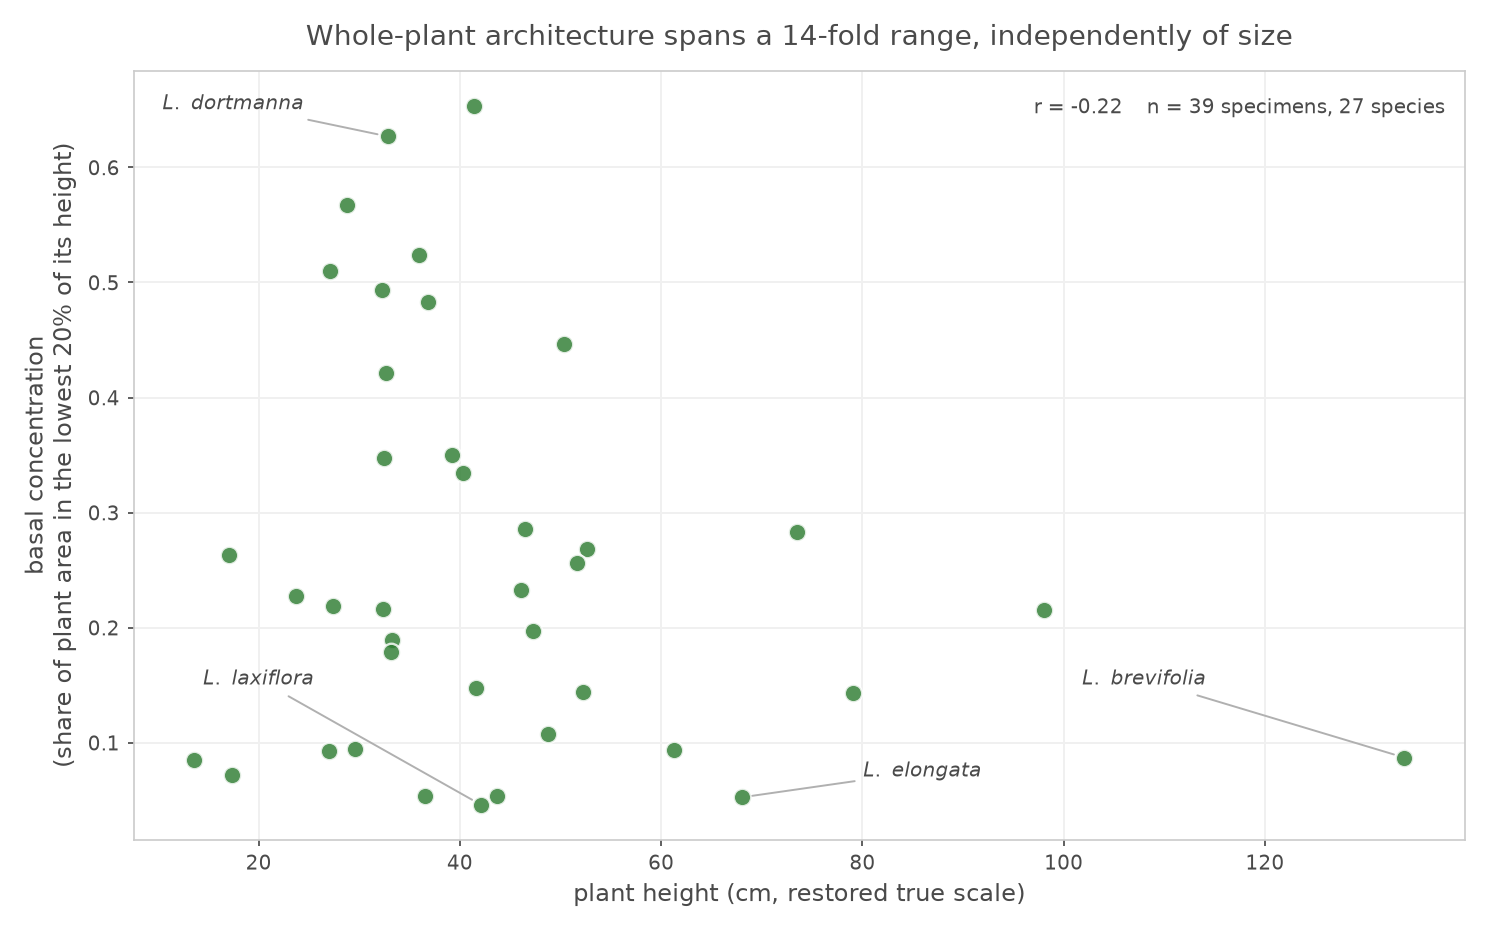
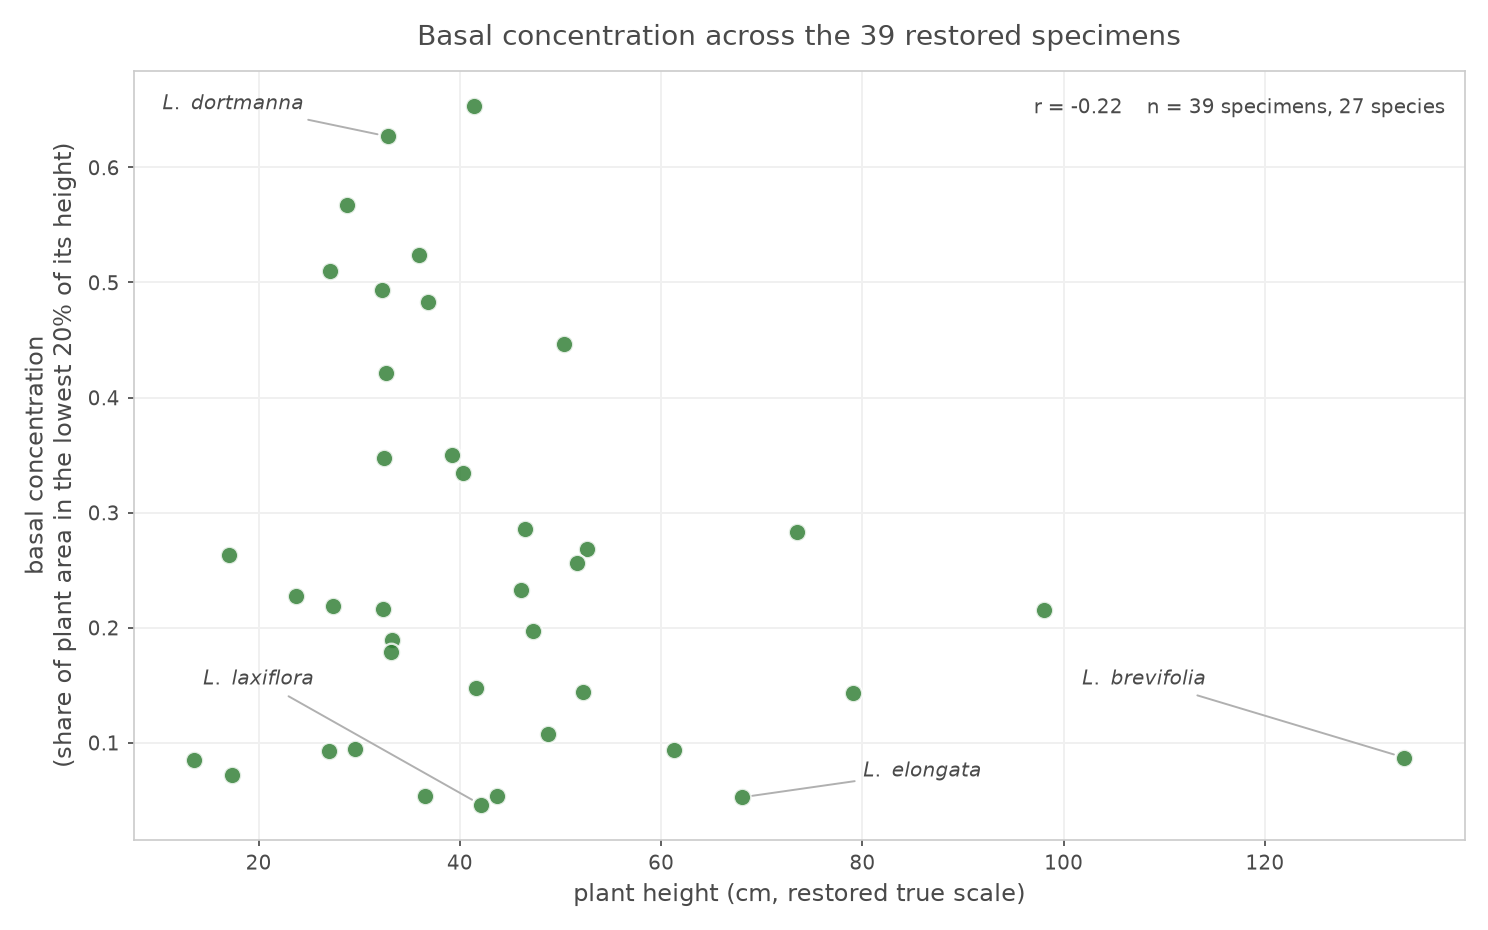
projects: ground the silhouette measurements against real plants (#63)
The habit section drew biological conclusions from artwork. The silhouettes are
RESTORATIONS -- plants I unfolded and rejoined -- so anything measured off them
carries my restoration decisions, and the page was presenting that as a result
about Lobelia.

Checked the restored heights against published stature, which is the test that
should have gated the claim in the first place:

  L. siphilitica   61 cm            vs  46-152 cm published   INSIDE
  L. cardinalis    24 / 47 / 52 cm  vs  122-152 cm published  FAR BELOW

The disagreement is the informative one. A herbarium sheet holds what fits on a
herbarium sheet: for a tall species the mounted specimen is often a portion of
the plant or a small individual, so a silhouette faithfully depicts the pressed
SPECIMEN, not the species. An outline of a fragment carries no information about
how the whole plant was built -- which undercuts reading the basal-concentration
gradient as biology.

Removed: the eta^2 = 0.895 between-species claim, the cross-page comparison
asserting whole-plant architecture is more species-diagnostic than leaf outline,
and the figure title "Whole-plant architecture spans a 14-fold range".

Kept the measurement, reframed as a description of this set of images.

Two other spots inherited the same overreach and are fixed: the explorer caption
called the cardinalis range "within-species spread" (it is a spread between
specimens), and the sheet-height check claimed to "corroborate the method" when
[…]

Changed region(s): [[0.2164, 0.0312, 0.8656, 0.0624]]

diff --git a/_projects/LobeliaSilhouettes.md b/_projects/LobeliaSilhouettes.md
@@ -41,7 +41,7 @@ Two constraints do most of the work, and they are what separate this from illust
 
 Which is why the plate above can exist at all. The individual files are not stored at a common resolution — they run from 30 to 85 pixels per centimetre — so the plate is built by reading each file's own bar and resampling every plant to one shared scale.
 
-**The measurements corroborate the method.** A standard herbarium sheet is about 42 cm tall, yet _L. brevifolia_ restores to 134 cm and _L. apalachicolensis_ to 98 cm. A plant taller than the sheet it is mounted on is exactly what unfolding recovers — the specimen was folded to fit, and the restoration puts it back.
+**One internal check.** A standard herbarium sheet is about 42 cm tall, yet _L. brevifolia_ restores to 134 cm and _L. apalachicolensis_ to 98 cm. A plant longer than the sheet it is mounted on had to have been folded to fit, which is what the unfolding step undoes. That says the restoration is doing what it claims; it says nothing about whether the mounted plant was complete.
 
 ## Explore the set
 
@@ -55,20 +55,25 @@ Every restored specimen, on one centimetre axis. Hover any plant for its species
   </iframe>
 </div>
 <div class="caption">
-All <strong>39</strong> restored specimens, ordered by height, drawn at a single shared scale — <strong>the axes are locked to equal aspect</strong>, so nothing is stretched to fit and the plot is as wide as the plants genuinely are. Scroll sideways to reach <em>L. brevifolia</em>. Species with several restored specimens appear more than once, which is where the within-species spread shows: the three <em>L. cardinalis</em> stand at 24, 47 and 52 cm.
+All <strong>39</strong> restored specimens, ordered by height, drawn at a single shared scale — <strong>the axes are locked to equal aspect</strong>, so nothing is stretched to fit and the plot is as wide as the plants genuinely are. Scroll sideways to reach <em>L. brevifolia</em>. Species with several restored specimens appear more than once, and they need not agree: the three <em>L. cardinalis</em> sheets stand at 24, 47 and 52 cm — a spread between <em>specimens</em>, not a claim about how tall the species grows.
 </div>
 
-## What the outlines measure
+## How the set measures against real plants
 
-Because each silhouette is a whole plant at true scale, the set supports a measurement the individual images don't obviously offer: **where a plant carries its bulk**. For each of the 39 I measured the share of its area sitting in the lowest fifth of its own height — high for a basal rosette, low for a plant that spreads its leaves up a tall stem.
+Because every silhouette is at true scale, the set can be measured. For each of the 39 I took the share of plant area sitting in the lowest fifth of its own height — high where the leaves cluster at the base, low where they climb a stem.
 
-{% include figure.liquid path="assets/img/lobelia/habit_architecture.png" title="Basal concentration against plant height for 39 restored Lobelia specimens" alt="Scatter plot of 39 green points, plant height in centimetres on the x axis from 13 to 134, basal concentration on the y axis from 0.05 to 0.65. The points show no trend; L. dortmanna sits high at 33 cm, L. brevifolia low at 134 cm, L. laxiflora and L. elongata low at moderate heights." caption="**Architecture is independent of size.** Each point is one restored specimen. Tall plants are not systematically top-heavy and short plants are not systematically rosettes — the correlation with height is −0.22. _L. dortmanna_, the classic aquatic basal-rosette species of the group, lands where it should, near the top." class="img-fluid rounded z-depth-1" %}
+{% include figure.liquid path="assets/img/lobelia/habit_architecture.png" title="Basal concentration against plant height for 39 restored Lobelia specimens" alt="Scatter plot of 39 green points, plant height in centimetres on the x axis from 13 to 134, basal concentration on the y axis from 0.05 to 0.65. The points show no trend; L. dortmanna sits high at 33 cm, L. brevifolia low at 134 cm, L. laxiflora and L. elongata low at moderate heights." caption="Each point is one restored specimen. The spread is wide and does not track plant height (r = −0.22). _L. dortmanna_, the aquatic rosette species of the group, sits near the top, which is at least the right direction." class="img-fluid rounded z-depth-1" %}
 
-The spread is **14-fold**, from 0.05 to 0.65, and it is chiefly a property of the species rather than the specimen: across the seven species restored from more than one sheet, **89% of the variance falls between species rather than within them**. The two _L. amoena_ specimens agree to three decimal places.
+**Then the check that matters: do these plants match real ones?** Comparing restored heights against published stature, for the two species I could find a reference for:
 
-Two limits worth stating. The gradient is **continuous, not two discrete architectures** — the largest gap in the sorted values splits it 30/9 at seven times the median gap, which is suggestive and no more. And an outline cannot separate basal leaves from roots, so this conflates the two wherever roots were mounted with the plant. One species argues with itself: the three _L. nuttallii_ specimens span half the entire range, against a median within-species spread of 12%.
+| species | restored | published |
+| --- | --- | --- |
+| _L. siphilitica_ | 61 cm | 46–122 cm — inside |
+| _L. cardinalis_ (×3) | 24, 47, 52 cm | 122–152 cm — **far below** |
 
-Worth noting against the [leaf-measurement work]({{ '/projects/LobeliaLeafMeasurement/' | relative_url }}), where leaf outline placed only 49% of its variance between species: whole-plant architecture looks the more species-diagnostic of the two. That is a loose comparison rather than a like-for-like test — different traits, different samples, different analyses — but it points the same way as the older intuition that habit is what a botanist reads first.
+One agrees and one does not, and the disagreement is the more informative. **A herbarium sheet holds what fits on a herbarium sheet.** For a tall species the mounted specimen is often a portion of the plant, or a small individual — so what a silhouette faithfully depicts is that pressed specimen, not the species' stature. An outline of a fragment says nothing about how the whole plant was built.
+
+Which is why the gradient above is best read as a description of this set of images, not as a result about _Lobelia_. The restorations are faithful to the sheets; the sheets are not always faithful to the plant. (The reference is a horticultural database describing cultivated plants, so treat it as indicative too.)
 
 ## Where the specimens came from
 
